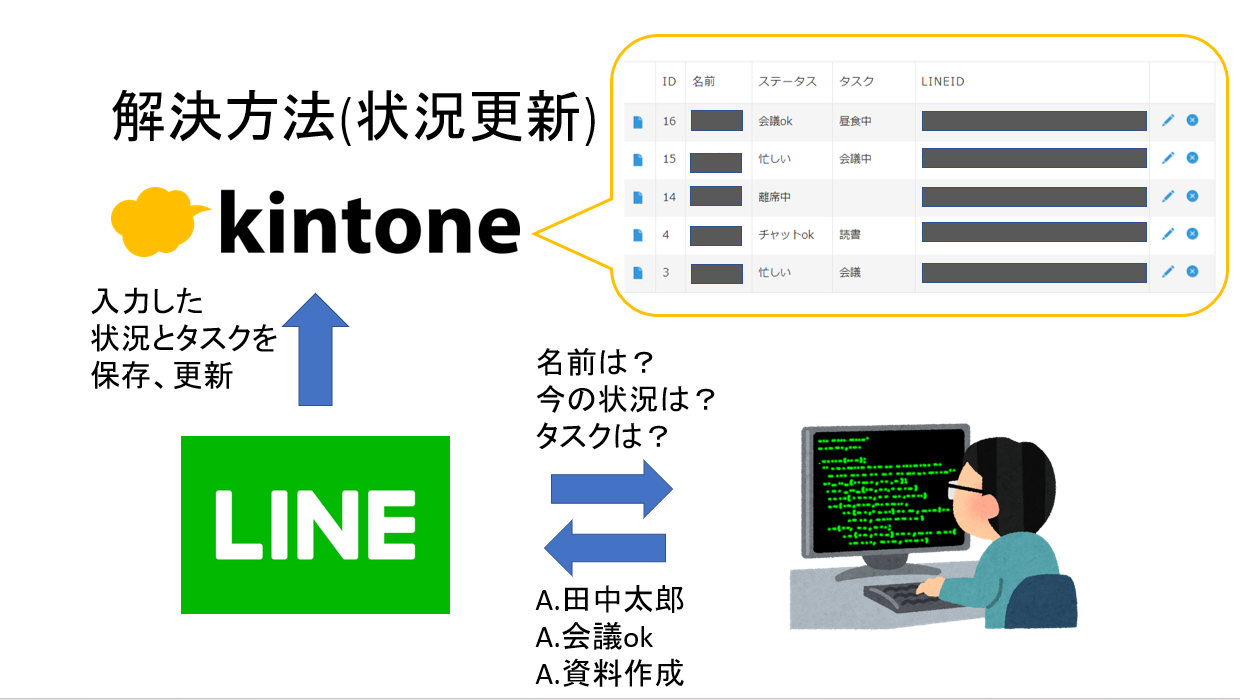
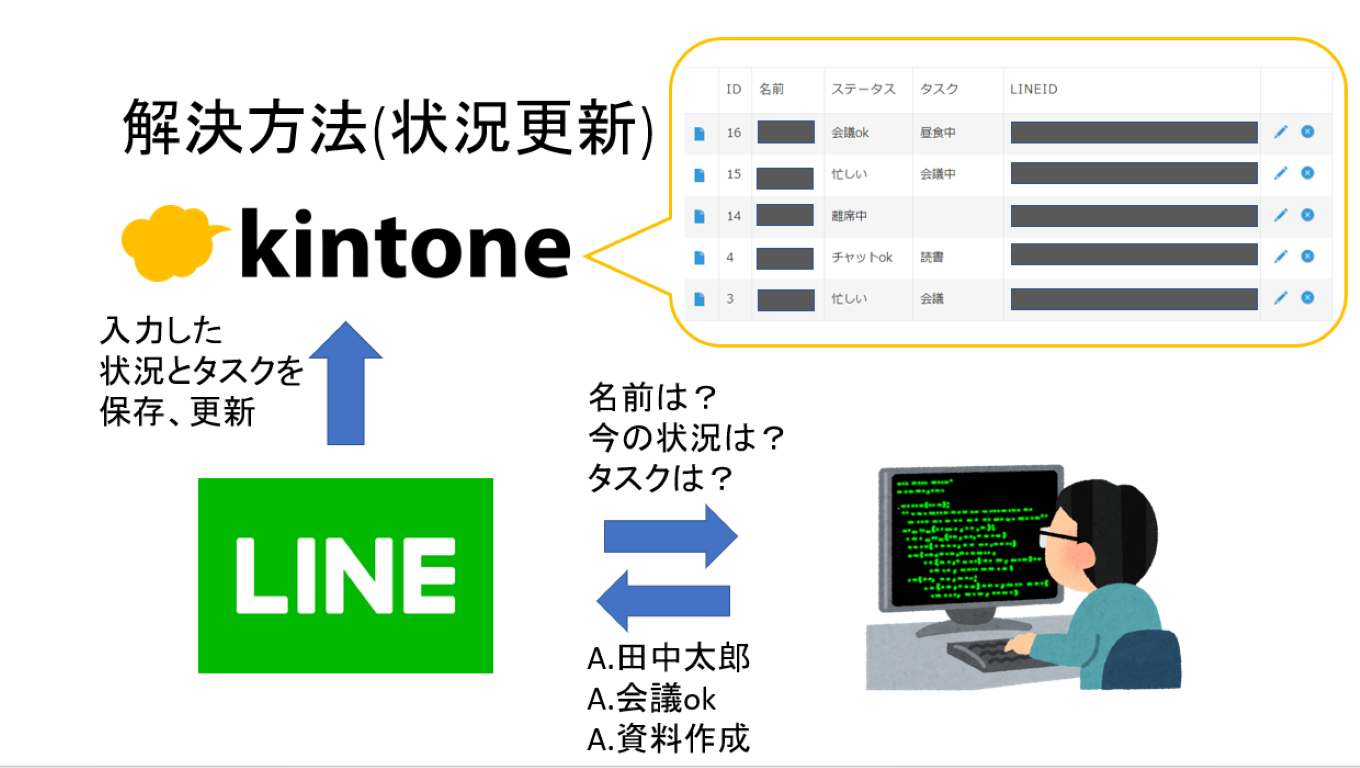
配置微調整

diff --git a/frontend/src/components/worksComponents/works/BIPROGYHackathon.tsx b/frontend/src/components/worksComponents/works/BIPROGYHackathon.tsx
@@ -2,13 +2,15 @@ import Header from '../../commonLayouts/header';
 import Footer from '../../commonLayouts/footer';
 import workList from '../../worksComponents/worksList';
 import {WorkTitle, WorkAbstract, WorkMotive, WorkPurpose, WorkTeckStack, WorkMyRole, WorkAward} from '../commonLayouts/workTemplate';
-import quizVSDetail1 from '../../../../public/images/quizVSDetail1.png'
-import quizVSDetail2 from '../../../../public/images/quizVSDetail2.png'
-import quizVSDetail3 from '../../../../public/images/quizVSDetail3.png'
 import {Accordion as FlowbiteAccordion } from 'flowbite-react';
+import dokuon from '../../../../public/images/dokuon.png'
+import dokuonsearch from '../../../../public/images/dokuonsearch.png'
+import dokuonSystem from '../../../../public/images/dokuonSystem.png'
 
-function YtvHackathon() {
-  const work = workList[3]
+
+const BIPROGYHackathon = () => {
+
+  const work = workList[7]
 
   return(
     <div>
@@ -28,9 +30,12 @@ function YtvHackathon() {
             </FlowbiteAccordion.Title>
             <FlowbiteAccordion.Content>
               <div className="mx-auto">
-                <img className="mb-3" src={quizVSDetail1}></img>
-                <img className="mb-3" src={quizVSDetail2}></img>
-                <img src={quizVSDetail3}></img>
+                <img src={dokuonSystem}></img>
+                <p className="text-center mb-3">システム構成図</p>
+                <img src={dokuon}></img>
+                <p className="text-center mb-3">アプリ概要</p>
+                <img src={dokuonsearch}></img>
+                <p className="text-center">検索機能</p>
               </div>
             </FlowbiteAccordion.Content>
           </FlowbiteAccordion.Panel>
@@ -38,7 +43,6 @@ function YtvHackathon() {
         <Footer></Footer>
       </div>
     </div>
-  );
+  )
 }
-
-export default YtvHackathon;
+export default BIPROGYHackathon;

diff --git a/frontend/src/routings/routing.tsx b/frontend/src/routings/routing.tsx
@@ -7,6 +7,7 @@ import YtvHackathon from '../components/worksComponents/works/ytvHackathon';
 import IngageIntern from '../components/worksComponents/works/IngageIntern';
 import BIPROGYSummerIntern from '../components/worksComponents/works/BIPROGYSummerIntern';
 import SCSKHackathon from '../components/worksComponents/works/SCSKHackathon';
+import BIPROGYHackathon from '../components/worksComponents/works/BIPROGYHackathon';
 import {BrowserRouter,  Routes, Route} from 'react-router-dom';
 
 function Routing() {
@@ -16,12 +17,13 @@ function Routing() {
         <Route path="/" element={<About />}/>
         <Route path="/works" element={<Works />}/>
         <Route path="/works/sotsuken" element={<Sotsuken />}/>
-        <Route path="/works/BIPROGYDXHACK" element={<BIPROGYDXHACK />}/>
-        <Route path="/works/KDGHACKS" element={<KDGHACKS />}/>
-        <Route path="/works/ytvHackathon" element={<YtvHackathon />}/>
-        <Route path="/works/IngageIntern" element={<IngageIntern />}/>
-        <Route path="/works/BIPROGYSummerIntern" element={<BIPROGYSummerIntern />}/>
-        <Route path="/works/SCSKHackathon" element={<SCSKHackathon />}/>
+        <Route path="/works/hackathon1" element={<BIPROGYDXHACK />}/>
+        <Route path="/works/hackathon2" element={<KDGHACKS />}/>
+        <Route path="/works/hackathon3" element={<YtvHackathon />}/>
+        <Route path="/works/intern1" element={<BIPROGYSummerIntern />}/>
+        <Route path="/works/intern2" element={<IngageIntern />}/>
+        <Route path="/works/hackathon4" element={<SCSKHackathon />}/>
+        <Route path="/works/hackathon5" element={<BIPROGYHackathon />}/>
       </Routes>
     </BrowserRouter>
   );

diff --git a/frontend/src/components/worksComponents/works/SCSKHackathon.tsx b/frontend/src/components/worksComponents/works/SCSKHackathon.tsx
@@ -27,9 +27,11 @@ function SCSKHackathon() {
               {'詳細'}
             </FlowbiteAccordion.Title>
             <FlowbiteAccordion.Content>
-              <img className="mx-auto" src={mimamoriDetail1}></img>
-              <img className="mx-auto" src={mimamoriDetail2}></img>
-              <img className="mx-auto" src={mimamoriDetail3}></img>
+              <div className="mx-auto">
+                <img className="mb-3" src={mimamoriDetail1}></img>
+                <img className="mb-3" src={mimamoriDetail2}></img>
+                <img src={mimamoriDetail3}></img>
+              </div>
             </FlowbiteAccordion.Content>
           </FlowbiteAccordion.Panel>
         </FlowbiteAccordion>

diff --git a/frontend/src/components/worksComponents/works/KDGHACKS.tsx b/frontend/src/components/worksComponents/works/KDGHACKS.tsx
@@ -25,8 +25,10 @@ function KDGHACKS() {
               {'詳細'}
             </FlowbiteAccordion.Title>
             <FlowbiteAccordion.Content>
-              <img className="mx-auto" src={remodameshiDetail}></img>
-              <p className="mx-auto">※表情認識による恐怖度推定は期限内に実装できなかった</p>
+              <div className="mx-auto">
+                <img src={remodameshiDetail}></img>
+                <p className="text-xl">※表情認識による恐怖度推定は期限内に実装できなかった</p>
+              </div>
             </FlowbiteAccordion.Content>
           </FlowbiteAccordion.Panel>
         </FlowbiteAccordion>

diff --git a/frontend/src/components/worksComponents/works/BIPROGYDXHACK.tsx b/frontend/src/components/worksComponents/works/BIPROGYDXHACK.tsx
@@ -28,8 +28,10 @@ const BIPROGYDXHACK = () => {
               {'詳細'}
             </FlowbiteAccordion.Title>
             <FlowbiteAccordion.Content>
-              <img className="mx-auto" src={ukagaukun1}></img>
-              <img className="mx-auto" src={ukagaukun2}></img>
+              <div className="mx-auto">
+                <img src={ukagaukun1}></img>
+                <img src={ukagaukun2}></img>
+              </div>
             </FlowbiteAccordion.Content>
           </FlowbiteAccordion.Panel>
         </FlowbiteAccordion>
